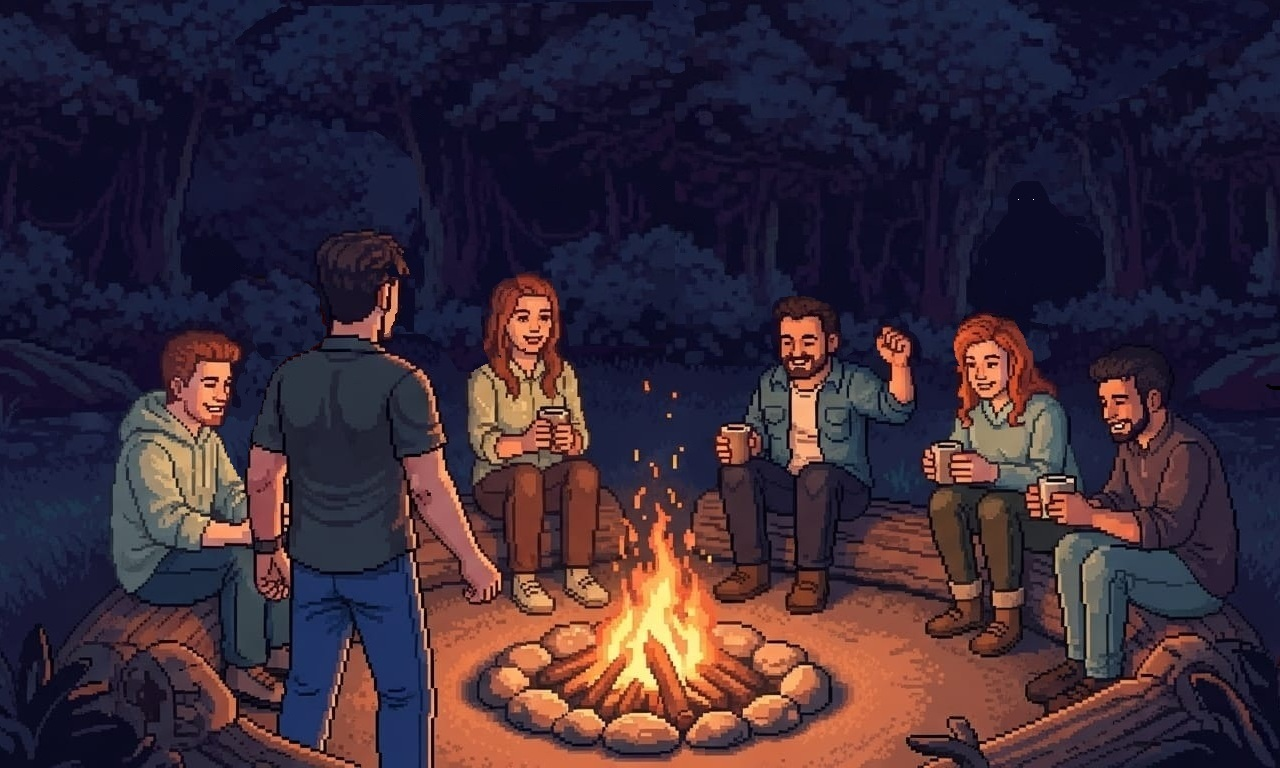
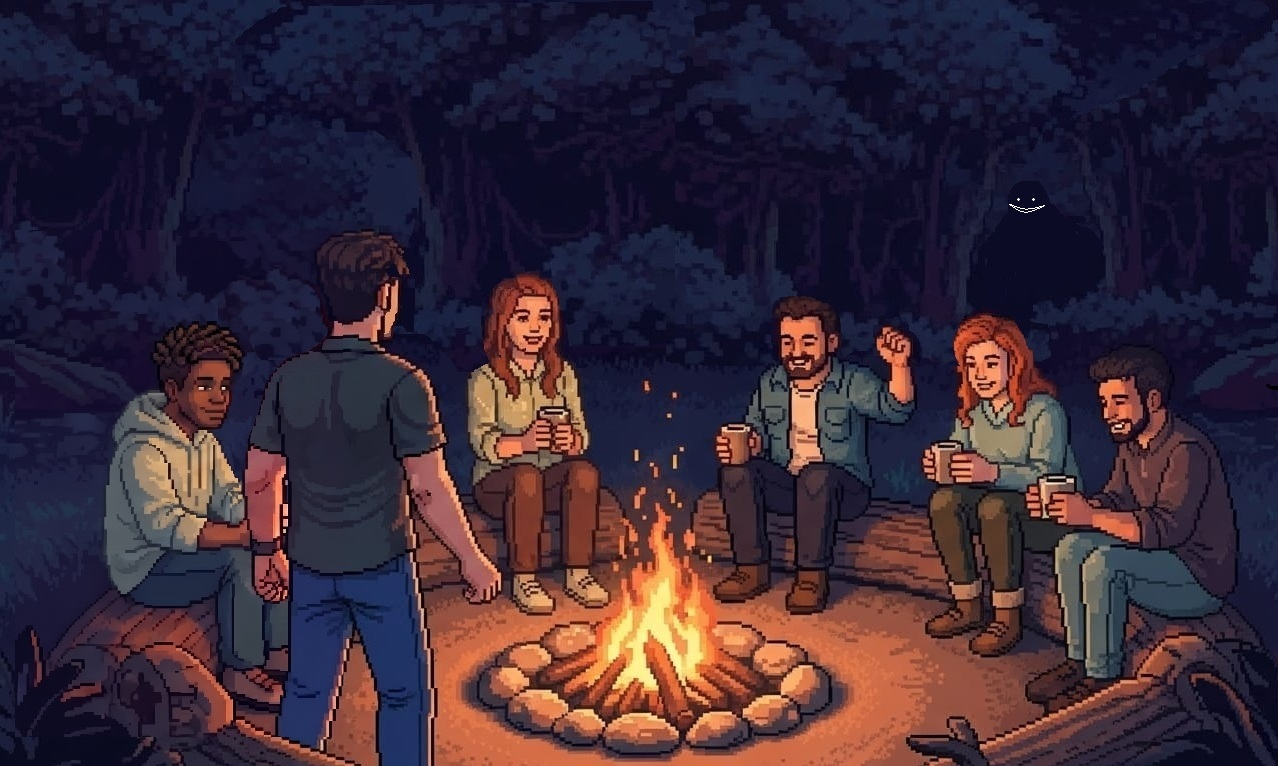
fix(assets): sincroniza lore e remove dança não usada

diff --git a/app/src/main/java/com/example/sobrevivaanoite/game/BattleViewModel.kt b/app/src/main/java/com/example/sobrevivaanoite/game/BattleViewModel.kt
@@ -58,7 +58,7 @@ class BattleViewModel(application: Application) : AndroidViewModel(application) 
     private val playerDodgeRightImages = listOf(R.drawable.sobrevivente_esquivando_direita, R.drawable.sobrevivente_esquivando_direita1)
     private val playerAttackImages = listOf(R.drawable.sobrevivente_ataque1, R.drawable.sobrevivente_ataque2, R.drawable.sobrevivente_ataque3, R.drawable.sobrevivente_ataque4, R.drawable.sobrevivente_ataque5, R.drawable.sobrevivente_ataque6)
     private val enemyHitImages = listOf(R.drawable.psicopata_atingido1, R.drawable.psicopata_atingido2, R.drawable.psicopata_atingido3, R.drawable.psicopata_atingido4)
-    private val victoryDances = listOf(R.drawable.rat_dance)//, R.drawable.fortnite_dance)
+    private val victoryDances = listOf(R.drawable.rat_dance)
     val victoryDancesList: List<Int> = victoryDances
     private var attackSpeed: Long = 250L
 

diff --git a/JogoWeb/MIGRACAO.md b/JogoWeb/MIGRACAO.md
@@ -37,7 +37,7 @@ Esta implementação nasceu como portabilização do jogo Android existente e fo
 ### 3. Scaffold
 
 - React, TypeScript estrito, Vite, CSS Modules, ESLint e Vitest configurados.
-- Assets copiados mecanicamente; originais Android preservados.
+- Assets copiados mecanicamente; posteriormente, a imagem da lore corrigida pelo usuário foi sincronizada e o GIF não utilizado do Fortnite foi removido das duas versões.
 - Primeiro lint/typecheck/test/build aprovado.
 
 ### 4. Portabilização
@@ -88,7 +88,7 @@ A matriz final está em `MATRIZ_EQUIVALENCIA.md`.
 - A música de tensão agora é interrompida seletivamente assim que termina a inspeção do esconderijo do jogador, inclusive quando ele escapa.
 - A batalha aceita `A`/seta esquerda e `D`/seta direita para esquiva.
 - A batalha aceita `Espaço` e clique esquerdo em qualquer área livre para atacar; os botões de esquiva mostram apenas setas.
-- A dança do Fortnite deixou de ser referenciada; a vitória usa apenas `rat_dance.gif`.
+- A dança do Fortnite foi removida dos assets Android e Web; a vitória usa apenas `rat_dance.gif`.
 - HP zero agora trava imediatamente ataques e esquivas, cancela timers concorrentes e fixa o sprite derrotado antes do joinha e da dança.
 - A vitória possui cenário de teste com inimigo iniciado em 1 HP e usa o `rat_dance_music.mp3` oficial da `master` atualizada.
 - `Voltar ao Menu` nos resultados limpa o hash da lore e retorna à abertura real.
@@ -148,14 +148,14 @@ Precaching de todos os assets tornaria a primeira instalação pesada. O shell (
 
 ## Integridade do Android
 
-Antes da migração, o worktree já continha seis arquivos Android modificados e vários arquivos não rastreados. Eles foram preservados.
+Antes da migração, o worktree já continha seis arquivos Android modificados e vários arquivos não rastreados. Eles foram preservados na criação da branch.
 
 No encerramento:
 
-- o diff Android continua com os mesmos seis arquivos;
-- o diff stat continua `122 insertions, 79 deletions`;
-- nenhuma edição Android foi feita;
-- toda nova implementação está em `JogoWeb/`.
+- a lógica Android permaneceu igual à baseline; no Kotlin, foi removido apenas o comentário que citava o GIF excluído;
+- `lore_fogueira.jpg` foi substituída pela correção fornecida pelo usuário;
+- `fortnite_dance.gif`, que não era usado, foi removido por decisão do usuário;
+- a implementação da versão Web permanece isolada em `JogoWeb/`.
 
 ## Manutenção futura
 

diff --git a/JogoWeb/README.md b/JogoWeb/README.md
@@ -13,13 +13,13 @@ Concluído e validado:
 - vitória atualizada com bloqueio imediato, espera maior no derrotado, joinha, Rat Dance e música preparada contra bloqueio de autoplay;
 - recorde de combo persistido entre sessões;
 - histórico de partidas com estatísticas dos dois modos e detalhes de batalha;
-- todos os assets Android preservados;
+- assets Android sincronizados, com a imagem da lore corrigida e o GIF não utilizado do Fortnite removido;
 - layout vertical responsivo, com a arte preenchendo as laterais da abertura;
 - PWA e funcionamento offline após o cache dos modos;
 - 66 testes aprovados em 16 arquivos;
 - lint, TypeScript estrito, build, verificação visual e verificação offline aprovados.
 
-O aplicativo Android fora de `JogoWeb` não foi modificado pela migração.
+A lógica do aplicativo Android fora de `JogoWeb` não foi modificada pela migração. A imagem `lore_fogueira.jpg` corrigida pelo usuário foi sincronizada entre Android e Web, e o GIF não utilizado do Fortnite foi removido das duas versões.
 
 ## Execução rápida
 
@@ -71,9 +71,9 @@ Publique o conteúdo de `dist/`. Para instalar a PWA e ativar service worker for
 
 ## Assets
 
-- `public/assets/images`: cópias originais de imagens/XML Android.
+- `public/assets/images`: imagens/XML sincronizados com o Android, incluindo a lore corrigida.
 - `public/assets/audio`: todos os 21 MP3 da versão Android atualizada.
-- `public/assets/gif`: os dois GIFs originais preservados; somente `rat_dance.gif` é usado pelo jogo.
+- `public/assets/gif`: somente `rat_dance.gif`, usado na vitória da batalha.
 - `public/assets/android-icons`: mipmaps/ícones Android preservados.
 - `public/assets/optimized`: 36 WebPs lossless usados pelo jogo.
 - `public/icons`: ícones 192/512 da PWA.

diff --git a/JogoWeb/STATUS.md b/JogoWeb/STATUS.md
@@ -24,7 +24,7 @@ Migração realinhada, validada e pronta na branch `feat/web`, criada diretament
 - ✔ Todos os fontes Kotlin, configurações e assets analisados.
 - ✔ Quatro telas, três ViewModels e camada de dados portados.
 - ✔ Estados, HP, dano, combo, IA, probabilidades e timers preservados; coordenadas refinadas pela referência do usuário.
-- ✔ 42 drawables, 21 MP3 e ícones Android copiados.
+- ✔ 41 drawables, 21 MP3 e ícones Android copiados; lore corrigida e GIF não utilizado do Fortnite removido.
 - ✔ Menu/lore com textos, imagens, fades e retorno.
 - ✔ Esconderijo com alvos corrigidos, clique estável, tensão interrompível, retorno ao menu e restart.
 - ✔ Batalha com setas, teclado, mouse, IA, parry, combo 250→175→100, recorde e sequência de vitória refinada.
@@ -39,7 +39,7 @@ Migração realinhada, validada e pronta na branch `feat/web`, criada diretament
 - ✔ 66 testes em 16 arquivos aprovados no ciclo funcional.
 - ✔ Oito cenários visuais reais aprovados, incluindo histórico e abertura 546×866.
 - ✔ Matriz Android/Web atualizada com os refinamentos explicitamente autorizados.
-- ✔ Código Android preservado exatamente como na `origin/master` usada como baseline.
+- ✔ Código Android preservado; somente a lore corrigida pelo usuário e a remoção do GIF não utilizado alteram os assets da baseline.
 - ✔ Documentos obrigatórios finalizados.
 
 ## Em andamento

diff --git a/JogoWeb/INVENTARIO_ASSETS.md b/JogoWeb/INVENTARIO_ASSETS.md
@@ -1,12 +1,12 @@
 # Inventário de assets Android
 
-Todos os recursos abaixo serão copiados, sem mover ou alterar os originais. Recursos não referenciados pelo fluxo atual também serão preservados no projeto Web para garantir uma migração integral.
+Os recursos usados pelo jogo foram copiados para a Web. A imagem da lore foi atualizada com a correção fornecida pelo usuário, e o GIF não utilizado do Fortnite foi removido das duas versões.
 
 ## Resumo
 
 | Categoria | Quantidade | Tamanho aproximado |
 |---|---:|---:|
-| Drawables (incluindo XML) | 42 | 29,82 MiB |
+| Drawables (incluindo XML) | 41 | 28,90 MiB |
 | Áudios MP3 | 20 | 0,70 MiB |
 | APK Android de referência | 1 | 31,26 MiB |
 
@@ -68,7 +68,6 @@ Todos os sprites abaixo têm 680×654:
 | Arquivo | Dimensões | Frames | Duração |
 |---|---:|---:|---:|
 | `rat_dance.gif` | 148×218 | 17 | 1,02 s |
-| `fortnite-dance.gif` | 295×348 | 73 | 7,30 s |
 
 ## Áudios
 

diff --git a/JogoWeb/MATRIZ_EQUIVALENCIA.md b/JogoWeb/MATRIZ_EQUIVALENCIA.md
@@ -108,9 +108,9 @@ A versão Web preserva o baseline Android, acrescido dos refinamentos explicitam
 
 ## Assets e renderização
 
-- Todos os 42 drawables e 21 MP3 da `master` atualizada foram copiados.
+- Os drawables usados e os 21 MP3 da `master` atualizada foram copiados; `lore_fogueira.jpg` recebeu a correção do usuário.
 - Todos os mipmaps/ícones Android foram preservados.
-- Os dois GIFs originais permanecem preservados, mas `fortnite-dance.gif` não é mais referenciado pelo jogo.
+- Somente `rat_dance.gif` permanece; o GIF não utilizado do Fortnite foi removido do Android e da Web.
 - 36 PNGs possuem derivados WebP lossless.
 - A validação exige alfa idêntico e RGB idêntico em todo pixel visível.
 - Economia: 28,3 MiB → 16,4 MiB nos recursos convertidos.

diff --git a/JogoWeb/ANALISE_ANDROID.md b/JogoWeb/ANALISE_ANDROID.md
@@ -244,7 +244,7 @@ Vitória:
 1. Ao chegar a zero HP, salva a vitória, cancela a IA, bloqueia ações e mantém `psicopata_atordoado.png` por 1.000 ms.
 2. Mostra `psicopata_derrotado.png` por 2.500 ms.
 3. Inicia `rat_dance_music.mp3` e mostra `sobrevivente_vitoria.png` por 2.500 ms.
-4. Mostra somente `rat_dance.gif`; o Fortnite está comentado na lista de danças.
+4. Mostra somente `rat_dance.gif`; o GIF não utilizado do Fortnite foi removido.
 5. Define resultado `win`, oculta HUD e exibe `VOCÊ VENCEU!`, `Tentar Novamente` e `Voltar ao Menu`.
 
 Derrota:
